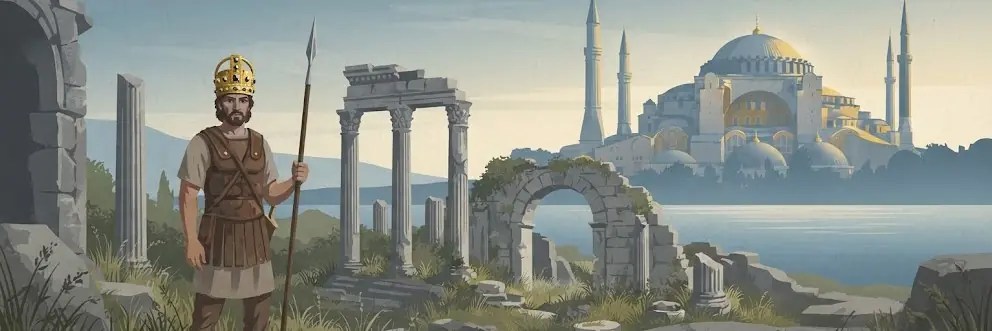
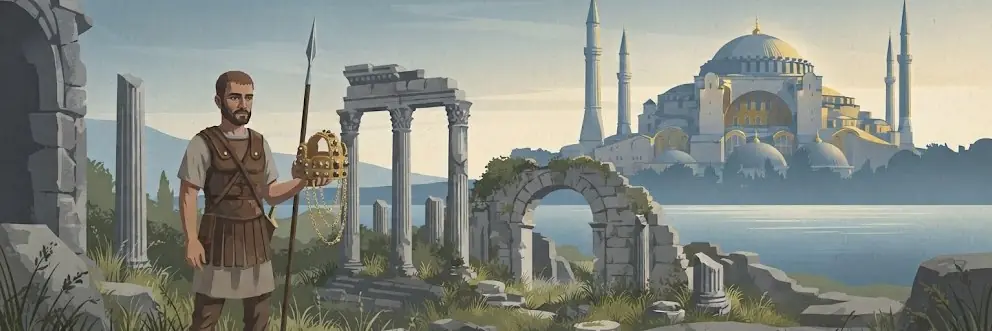
Capítulo med1: corona votiva corregida
Claude-Session: https://claude.ai/code/session_01V9xa97nQMEEdECz83CmCea

diff --git a/sw.js b/sw.js
@@ -1,5 +1,5 @@
 // HistoKHB — service worker: la app abre sin conexión con lo ya visto.
-const V='hk-v151';
+const V='hk-v152';
 const SHELL=['./','index.html','manifest.json','datos/indice.json','img/icono-192.png'];
 self.addEventListener('install',e=>{e.waitUntil(caches.open(V).then(c=>c.addAll(SHELL)).then(()=>self.skipWaiting()));});
 self.addEventListener('activate',e=>{e.waitUntil(caches.keys().then(ks=>Promise.all(ks.filter(k=>k!==V).map(k=>caches.delete(k)))).then(()=>self.clients.claim()));});
